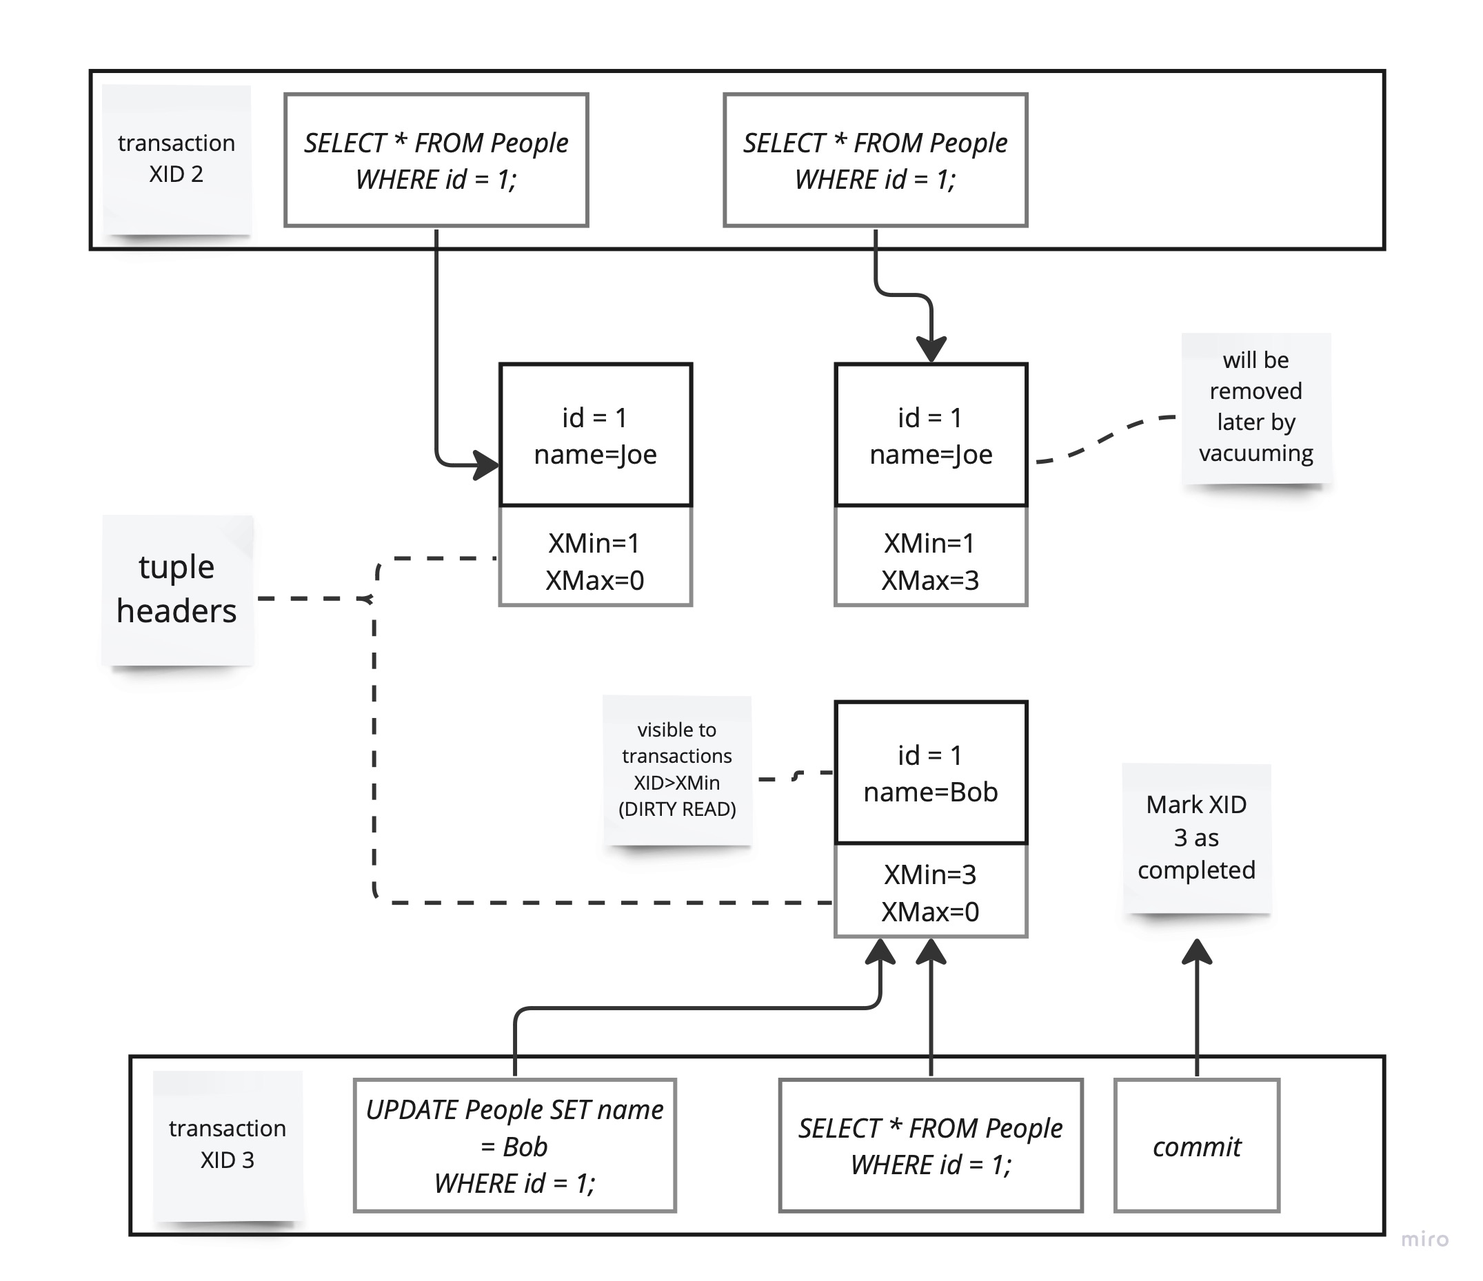
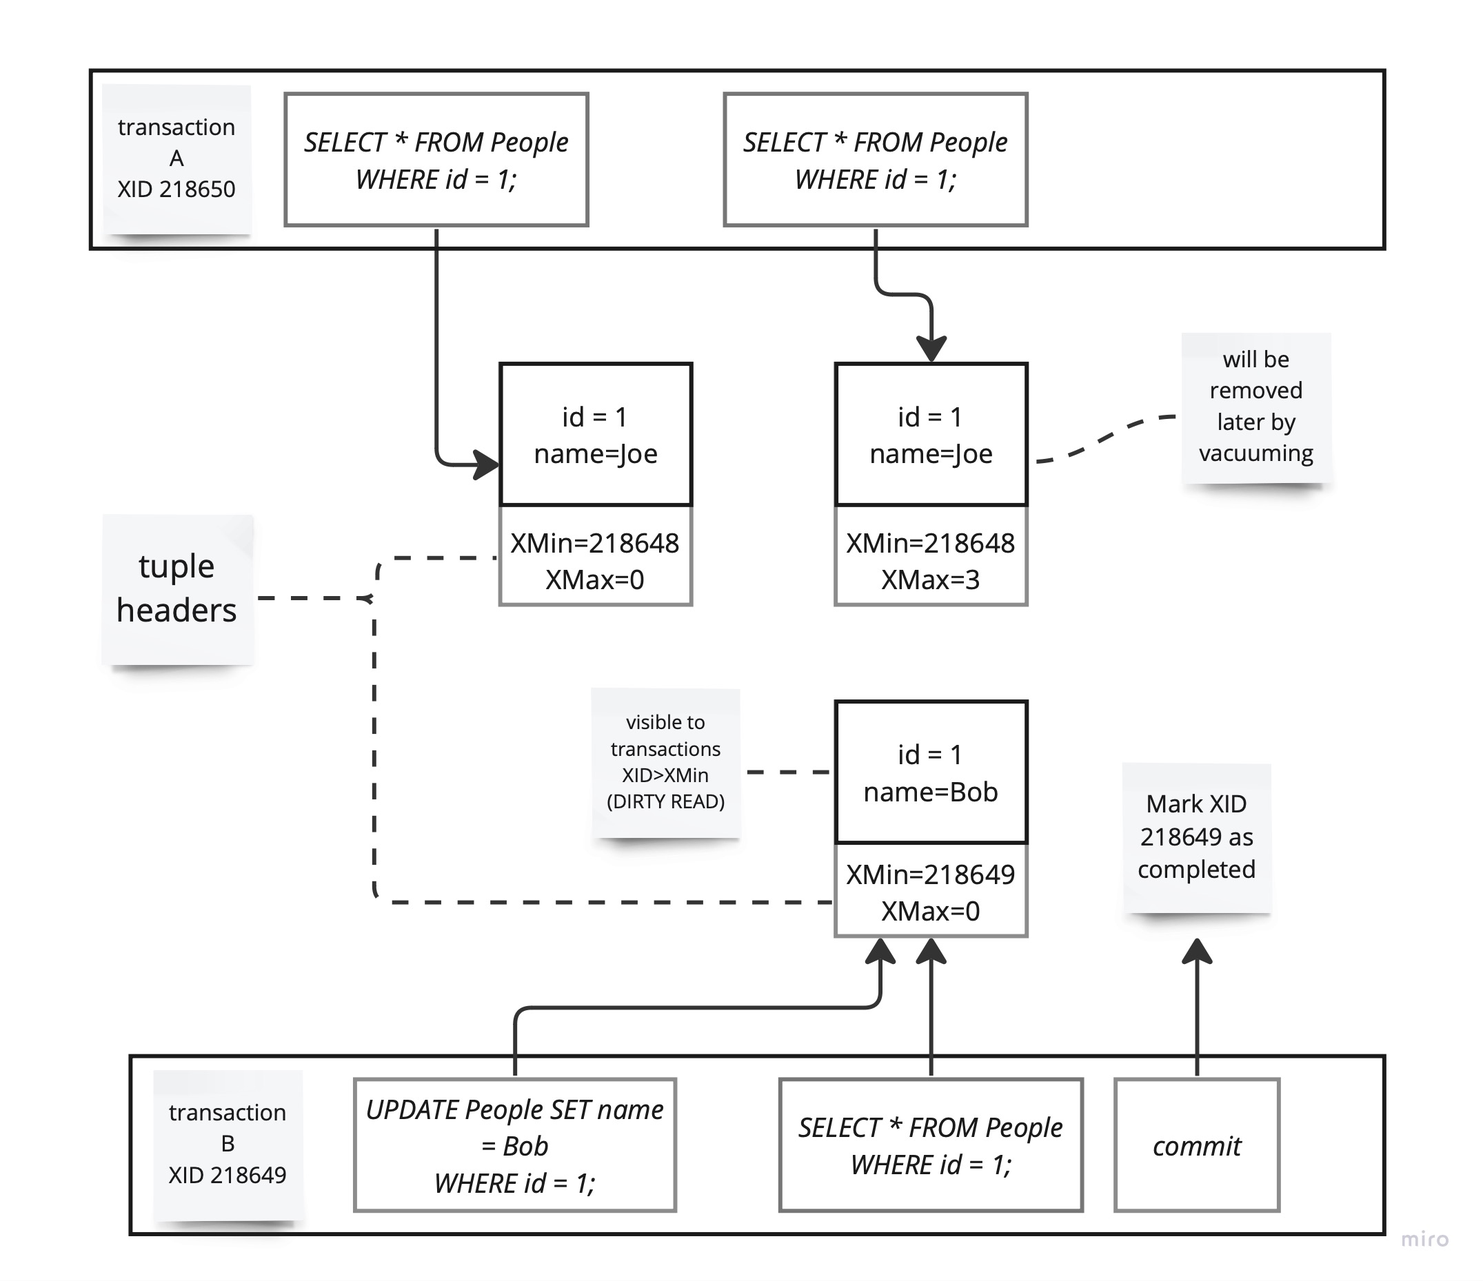
rename

diff --git a/content/posts/psql-mvcc/index.md b/content/posts/psql-mvcc/index.md
@@ -1,73 +1,151 @@
 ---
-title:  "Read Committed transaction isolation in PostgreSQL"
-date: 2023-09-22T09:00:00+04:00
-draft: true
+title:  "Transaction isolation in PostgreSQL"
+date: 2023-10-02T09:00:00+04:00
+draft: false
 cover:
     image: "transactions.png"
     caption: "READ COMMITTED transaction isolation level"
 ---
 
 <!-- ![Design overview](/images/transactions.png) -->
-
-Recently I was reading “Designing Data-Intensive Applications” book, and it ignited my interest to explore the source code of PostgreSQL, the database I mostly use, prompting me to delve deeper into the technical details behind its implementation and check out how aligned it is with what I learned from the book. According to statista it takes 4th place in most popular databases 2023. Typically first go Microsoft SQL, MySQL, Oracle and PostgreSQL.
-
-By the way, databases are also discussed during the interviews, and typically questions cover indexing, ACID transaction properties, isolation levels, architecture, B-trees.
+Recently I was reading “Designing Data-Intensive Applications” book. It covers lots of topics related to creation of reliable, scalable and maintainable data systems and one of the chapter covers a concept of transactions - its meaning, use cases, levels of isolation and reasons why application developers should choose the right one. While many books and articles cover transaction isolation level with pure SQL examples for database users, I decided to go a bit deeper and check how a theory gets connected with actual implementation. As a software engineer with C++ background, it's interesting to check out the source code of one of the widely used open source databases - PostgreSQL. According to Statista it takes 4th place in most popular databases 2023. Typically first go Microsoft SQL, MySQL, Oracle and PostgreSQL.
 
 To make the study interesting and constructive and limit the study scope, I will try to answer a question - how does transaction isolation work in general, and how database maintains READ COMMITTED isolation level in particular?
 
 There are 4 transaction isolation levels in PostgreSQL:
 
 * DIRTY READ
+
 * READ COMMITTED
+
 * REPEATABLE READ
+
 * SERIALIZABLE
 
-Read committed level guarantees that transaction will see only committed results. Transaction won’t see uncommitted changes of other concurrently running transactions.
+Read committed level guarantees that:
 
-The diagram above illustrates non-repeatable read problem and read-committed guarantee. Transaction B accesses the same row twice. First time SELECT reads the value after the transaction A executed an update on that row, but before that change was committed. READ COMMITTED isolation level prevents dirty (uncommitted) reads. Next in a timeline, transaction A commits the changes and transaction B accesses that row again. This time it will read an updated row. This may be dangerous in certain contexts, e.g. financial domain when performing the changes in account’s balance.
+* transaction will see only committed results (no dirty reads). Transaction won’t see uncommitted changes of other concurrently running transactions
 
-## How does transaction isolation work in PostgreSQL?
+* writing to the database will overwrite only committed data (no dirty writes)
 
-PostgreSQL uses MVCC to allow concurrent read and write operations without locking the entire table. MVCC creates a snapshot of the database at the start of each transaction. Each transaction sees a snapshot of the database as of the transaction's start time. This snapshot-based approach allows for a high degree of concurrency. To achieve that PostgreSQL implements MVCC:
+Let's start with some SQL code and illustrations, and then explore the source code. First create a simple table:
 
-* Versioning data - due to concurrent transactions there might be multiple versions of rows at a time visible to different transactions. Each row modification is associated with transaction, that either created, modified or deleted row. Each row also contains a visibility marker, indicating when row is visible and when it becomes invisible (after deletion or update).
+```
+CREATE TABLE public.employees (
+  id SERIAL PRIMARY KEY,
+  name VARCHAR NOT NULL,
+  surname VARCHAR NOT NULL,
+);
+```
 
-* Mark transaction with IDs - XIDs. Its 32bit transaction identifier used to track visibility and age of transactions.
+One row is sufficient for our case:
 
-* Read transactions - when a transaction starts, it gets assigned a unique XID. During a read operation, a transaction sees only those rows with XID ranges that are considered "visible" according to its own XID. This way read transactions don't see changes made by concurrent write transactions that have not been yet committed.
+```
+INSERT INTO accounts ("name", "surname") VALUES ("Phil", "Smith")
+```
 
-* Write transactions. When such transaction perform update or delete operation, it creates a new version of affected rows with new assigned XID. The "old" version of rows aren't removed yet. Those are marked as dead, and will become eligible for vacuuming.
+Lets run the following magic query
 
-This way PostgreSQL implements transaction isolation. Each transaction sees a snapshot of a database at a time transaction started, and changes made by other transactions after that point are not visible.
+```
+# SELECT xmin, xmax, ctid, * FROM employees;
+  xmin  | xmax | ctid  | id | name | surname 
+--------+------+-------+----+------+---------
+ 218648 |    0 | (0,1) |  1 | Phil | Smith
+(1 row)
+```
 
-## READ COMMITTED example
+Interesting numbers are in the response. Those are initial tuple attribute values for the inserted record of the first employee, but lets run two other transactions A and B concurrently (or sequentially for simplicity):
 
-What happens when row gets updated while being repeatably read by another transaction?
+```
+-- transaction A
+BEGIN;
+UPDATE employees SET name = "Bob" WHERE id = 1;
+COMMIT;
 
-![Design overview](mvcc-tuples.jpg)
+-- transaction B
+BEGIN;
+SELECT name FROM employees WHERE id = 1;
+SELECT name FROM employees WHERE id = 1;
+COMMIT;
+```
 
-When a transaction updates a tuple, it creates a new version of the tuple (AKA copy-on-write approach) with its own XID, and the old tuple's Xmax (Transaction ID of the last transaction to modify the tuple) is set to the XID of the updating transaction. Old tuple lifecycle is ended and future transactions should not see it (at least after successful commit). New tuple needs to be visible only for later transactions. It's header XMin is now assigned a value equal to transaction XID - 3. Old tuple XMax value is now assigned to 3 as well. Xmax value limits the visibility of the tuple depending on transaction isolation level. Non-zero value of XMax may actually have a few interpretations depending on the other flags set in tuple header (e.g. xmax is also assigned when tuple is locked for update).
+and run the magic query again
 
-This diagram explains very high level the MVCC implementation. There are more interesting things happen to the states of tuples, transactions and snapshots. For example, tuple state and its visibility is well described in [heapam_visibility.c](https://github.com/postgres/postgres/blob/master/src/backend/access/heap/heapam_visibility.c)
+```
+# SELECT xmin, xmax, ctid, * FROM employees;
+  xmin  | xmax | ctid  | id | name | surname 
+--------+------+-------+----+------+---------
+ 218651 |    0 | (0,2) |  1 | Bob  | Smith
+```
 
-## Why don't concurrent transactions see new tuple until XID 3 is committed?
+`xmin` has slightly increased, and ctid has changed as well. Those are quite a clue for understanding how MVCC works. But let's take a step back and try to see what happens when those transactions run concurrently, i.e. what names become visible to transaction B.
 
-At a start up of each transaction, one requests a snapshot object, containing information about all running transactions. Let's have a look at [procarray.c](https://github.com/postgres/postgres/blob/cca97ce6a6653df7f4ec71ecd54944cc9a6c4c16/src/backend/storage/ipc/procarray.c#L2126) file and very descriptive comment of GetSnapshotData function:
+![Transactions](transactions.png)
+
+The diagram above illustrates non-repeatable read problem with read-committed guarantee. Transaction B accesses the seemingly same row twice. First time SELECT reads the value after the transaction A executed an update on that row, but before that change was committed. READ COMMITTED isolation level prevents dirty (uncommitted) reads. Next in a timeline, transaction A commits the changes and transaction B accesses that row again. This time it will read an updated row, or actually a new tuple. By the way this may be dangerous in certain contexts, e.g. financial domain when performing the changes in account’s balance, thus for those tasks a stronger isolation might be needed.
+
+## So how does transaction isolation work in PostgreSQL?
+
+Without concurrency control, client may see inconsistent half-written data. The  way to guarantee consistent view is by introducing isolation for the requests, and the basic approach is through adding table level read-write locks, but such locks create a high level of contention between read and update transactions, resulting in very slow access. Here comes MVCC that allows concurrent read and write operations without locking the entire table. It may implement multiple levels of isolation, and Read Committed is a default one in PostgreSQL. What a particular transaction sees depends on its isolation level. With read committed level transactions see a snapshot of the database at the start of each transaction, i.e. see point-in-time consistent views. This isolation is achieved through data versioning - due to concurrent transactions there might be multiple versions of rows at a time visible to different transactions. Each row modification is associated with transaction, that either created, modified or deleted row. Each row also contains a visibility marker, indicating when row is visible and when it becomes invisible (after deletion or update). Isolation provides guarantees for concurrent data access.
+
+## How exactly does MVCC track versions?
+
+Remember that magic query we ran and the produced results? Let's try to understand what those mean and have a look at tuple declaration in http_details.h. HeapTupleFields catches my attention because it contains t_xmin, t_xmax and t_infomask from HeapTupleHeaderData also seems an important attribute - they seem to provide tuples with the necessary versioning, visibility levels required for transaction isolation. There are more attributes of course, but these must be describing the basic cases.
+
+```
+typedef struct HeapTupleFields
+{
+  TransactionId t_xmin; /* inserting xact ID */
+  TransactionId t_xmax;	/* deleting or locking xact ID */
+  union
+  {
+     CommandId t_cid; /* inserting or deleting command ID, or both */
+     TransactionId t_xvac; /* old-style VACUUM FULL xact ID */
+  } t_field3;
+} HeapTupleFields;
+```
+
+From the same header I read that
+
+* `t_infomask` is uint16 attribute and among other things it has bits enriching the `xmin` and `xmax` values, describing whether those are COMMITTED, INVALID or FROZEN.
+
+* `xmin` - is used to store transaction XID, assigned at INSERT and UPDATE commands
+
+* `xmax` - kinda invalidating or expiring a tuple, set by UPDATE or DELETE. It might be also used for row locks
+
+## What happens when row gets updated while being repeatably read by another transaction?
 
 ![GetSnapshotData](getsnapshotdata.png)
+
+### Create new tuple
+
+When a transaction updates a tuple, it actually creates a new version of it (AKA copy-on-write approach) with its own XID and New tuple's header has XMin value equal to transaction XID - 218648.
+
+### Mark old tuple for deletion
+
+The old tuple's Xmax (Transaction ID of the last transaction to modify the tuple) is set to the XID of the updating transaction. Future transactions should not be able to see it (at least after commit). When tuple has non-zero xmax may actually have a few interpretations depending on the other flags set in tuple header (e.g. xmax is also assigned when tuple is locked for update), but for simplicity I will omit those details.
+
+### Vacuum old tuple
+
+The Xmin and Xmax values are also used during the garbage collection process to determine which tuples are no longer visible to any active transaction. Tuples with an Xmax that is less than the current transaction's XID and when no other current transactions access the old tuple (e.g. deleted or replaced) - they can be safely removed during vacuuming.
+
+There are more interesting things happen to the states of tuples, transactions and snapshots. For example, tuple state and its visibility is well described in [heapam_visibility.c](https://github.com/postgres/postgres/blob/master/src/backend/access/heap/heapam_visibility.c)
+
+## Why don't concurrent transactions see new tuple until XID 218649 is committed?
+
+At a start up of each transaction, one requests a snapshot object, containing information about all running transactions. Let's have a look at procarray.c file and very descriptive comment of GetSnapshotData function:
+![GetSnapshotData](getsnapshotdata.png)
+
 
 Having a snapshot object describing currently running transactions and XIDs "boundaries" is quite helpful for complying with READ COMMITTED isolation level. From the example above, no other transaction of such isolation level will see "name = Bob" until transaction 3 is successfully committed.
 
 [heapam_visibility.c](https://github.com/postgres/postgres/blob/master/src/backend/access/heap/heapam_visibility.c) seems to be the right place to look for understanding how a snapshot type impacts the tuple visibility for transaction.
 
 ![Tuple Visibility](tuple-visibility.png)
-Those functions rely on tuple header fields (Xmin, Xmax and a few flag values), snapshot object to determine the visibility of the tuple to other transactions.
 
-## Garbage Collection
-The Xmin and Xmax values are also used during the garbage collection process to determine which tuples are no longer visible to any active transaction. Tuples with an Xmax that is less than the current transaction's XID and when no other current transactions access the old tuple (e.g. deleted or replaced) - they can be safely removed during vacuuming.
+Those functions rely on tuple header fields (Xmin, Xmax and a few flag values), snapshot object to determine the visibility of the tuple to other transactions.
 
 ## The end
 
 It was surprisingly fun to read PostgreSQL source code. Git blame reported that some lines were more than 20 years old. Methods frequently are well documented with comments and not only describe what a particular function does, but also conditions under which this function must be invoked, what kind of locks it uses, what optimisations were tried before, etc. For those who wants to dig deeper and explore the tuple states I recommend to start with [htup_details.h](https://github.com/postgres/postgres/blob/cca97ce6a6653df7f4ec71ecd54944cc9a6c4c16/src/include/access/htup_details.h).
 
-You can follow me on Twitter [@olegelantsev](https://twitter.com/OlegElantsev) or [GitHub](https://github.com/olegelantsev)

diff --git a/content/posts/psql-mvcc-old/index.md b/content/posts/psql-mvcc-old/index.md
@@ -1,0 +1,73 @@
+---
+title:  "Read Committed transaction isolation in PostgreSQL"
+date: 2023-09-22T09:00:00+04:00
+draft: true
+cover:
+    image: "transactions.png"
+    caption: "READ COMMITTED transaction isolation level"
+---
+
+<!-- ![Design overview](/images/transactions.png) -->
+
+Recently I was reading “Designing Data-Intensive Applications” book, and it ignited my interest to explore the source code of PostgreSQL, the database I mostly use, prompting me to delve deeper into the technical details behind its implementation and check out how aligned it is with what I learned from the book. According to statista it takes 4th place in most popular databases 2023. Typically first go Microsoft SQL, MySQL, Oracle and PostgreSQL.
+
+By the way, databases are also discussed during the interviews, and typically questions cover indexing, ACID transaction properties, isolation levels, architecture, B-trees.
+
+To make the study interesting and constructive and limit the study scope, I will try to answer a question - how does transaction isolation work in general, and how database maintains READ COMMITTED isolation level in particular?
+
+There are 4 transaction isolation levels in PostgreSQL:
+
+* DIRTY READ
+* READ COMMITTED
+* REPEATABLE READ
+* SERIALIZABLE
+
+Read committed level guarantees that transaction will see only committed results. Transaction won’t see uncommitted changes of other concurrently running transactions.
+
+The diagram above illustrates non-repeatable read problem and read-committed guarantee. Transaction B accesses the same row twice. First time SELECT reads the value after the transaction A executed an update on that row, but before that change was committed. READ COMMITTED isolation level prevents dirty (uncommitted) reads. Next in a timeline, transaction A commits the changes and transaction B accesses that row again. This time it will read an updated row. This may be dangerous in certain contexts, e.g. financial domain when performing the changes in account’s balance.
+
+## How does transaction isolation work in PostgreSQL?
+
+PostgreSQL uses MVCC to allow concurrent read and write operations without locking the entire table. MVCC creates a snapshot of the database at the start of each transaction. Each transaction sees a snapshot of the database as of the transaction's start time. This snapshot-based approach allows for a high degree of concurrency. To achieve that PostgreSQL implements MVCC:
+
+* Versioning data - due to concurrent transactions there might be multiple versions of rows at a time visible to different transactions. Each row modification is associated with transaction, that either created, modified or deleted row. Each row also contains a visibility marker, indicating when row is visible and when it becomes invisible (after deletion or update).
+
+* Mark transaction with IDs - XIDs. Its 32bit transaction identifier used to track visibility and age of transactions.
+
+* Read transactions - when a transaction starts, it gets assigned a unique XID. During a read operation, a transaction sees only those rows with XID ranges that are considered "visible" according to its own XID. This way read transactions don't see changes made by concurrent write transactions that have not been yet committed.
+
+* Write transactions. When such transaction perform update or delete operation, it creates a new version of affected rows with new assigned XID. The "old" version of rows aren't removed yet. Those are marked as dead, and will become eligible for vacuuming.
+
+This way PostgreSQL implements transaction isolation. Each transaction sees a snapshot of a database at a time transaction started, and changes made by other transactions after that point are not visible.
+
+## READ COMMITTED example
+
+What happens when row gets updated while being repeatably read by another transaction?
+
+![Design overview](mvcc-tuples.jpg)
+
+When a transaction updates a tuple, it creates a new version of the tuple (AKA copy-on-write approach) with its own XID, and the old tuple's Xmax (Transaction ID of the last transaction to modify the tuple) is set to the XID of the updating transaction. Old tuple lifecycle is ended and future transactions should not see it (at least after successful commit). New tuple needs to be visible only for later transactions. It's header XMin is now assigned a value equal to transaction XID - 3. Old tuple XMax value is now assigned to 3 as well. Xmax value limits the visibility of the tuple depending on transaction isolation level. Non-zero value of XMax may actually have a few interpretations depending on the other flags set in tuple header (e.g. xmax is also assigned when tuple is locked for update).
+
+This diagram explains very high level the MVCC implementation. There are more interesting things happen to the states of tuples, transactions and snapshots. For example, tuple state and its visibility is well described in [heapam_visibility.c](https://github.com/postgres/postgres/blob/master/src/backend/access/heap/heapam_visibility.c)
+
+## Why don't concurrent transactions see new tuple until XID 3 is committed?
+
+At a start up of each transaction, one requests a snapshot object, containing information about all running transactions. Let's have a look at [procarray.c](https://github.com/postgres/postgres/blob/cca97ce6a6653df7f4ec71ecd54944cc9a6c4c16/src/backend/storage/ipc/procarray.c#L2126) file and very descriptive comment of GetSnapshotData function:
+
+![GetSnapshotData](getsnapshotdata.png)
+
+Having a snapshot object describing currently running transactions and XIDs "boundaries" is quite helpful for complying with READ COMMITTED isolation level. From the example above, no other transaction of such isolation level will see "name = Bob" until transaction 3 is successfully committed.
+
+[heapam_visibility.c](https://github.com/postgres/postgres/blob/master/src/backend/access/heap/heapam_visibility.c) seems to be the right place to look for understanding how a snapshot type impacts the tuple visibility for transaction.
+
+![Tuple Visibility](tuple-visibility.png)
+Those functions rely on tuple header fields (Xmin, Xmax and a few flag values), snapshot object to determine the visibility of the tuple to other transactions.
+
+## Garbage Collection
+The Xmin and Xmax values are also used during the garbage collection process to determine which tuples are no longer visible to any active transaction. Tuples with an Xmax that is less than the current transaction's XID and when no other current transactions access the old tuple (e.g. deleted or replaced) - they can be safely removed during vacuuming.
+
+## The end
+
+It was surprisingly fun to read PostgreSQL source code. Git blame reported that some lines were more than 20 years old. Methods frequently are well documented with comments and not only describe what a particular function does, but also conditions under which this function must be invoked, what kind of locks it uses, what optimisations were tried before, etc. For those who wants to dig deeper and explore the tuple states I recommend to start with [htup_details.h](https://github.com/postgres/postgres/blob/cca97ce6a6653df7f4ec71ecd54944cc9a6c4c16/src/include/access/htup_details.h).
+
+You can follow me on Twitter [@olegelantsev](https://twitter.com/OlegElantsev) or [GitHub](https://github.com/olegelantsev)
